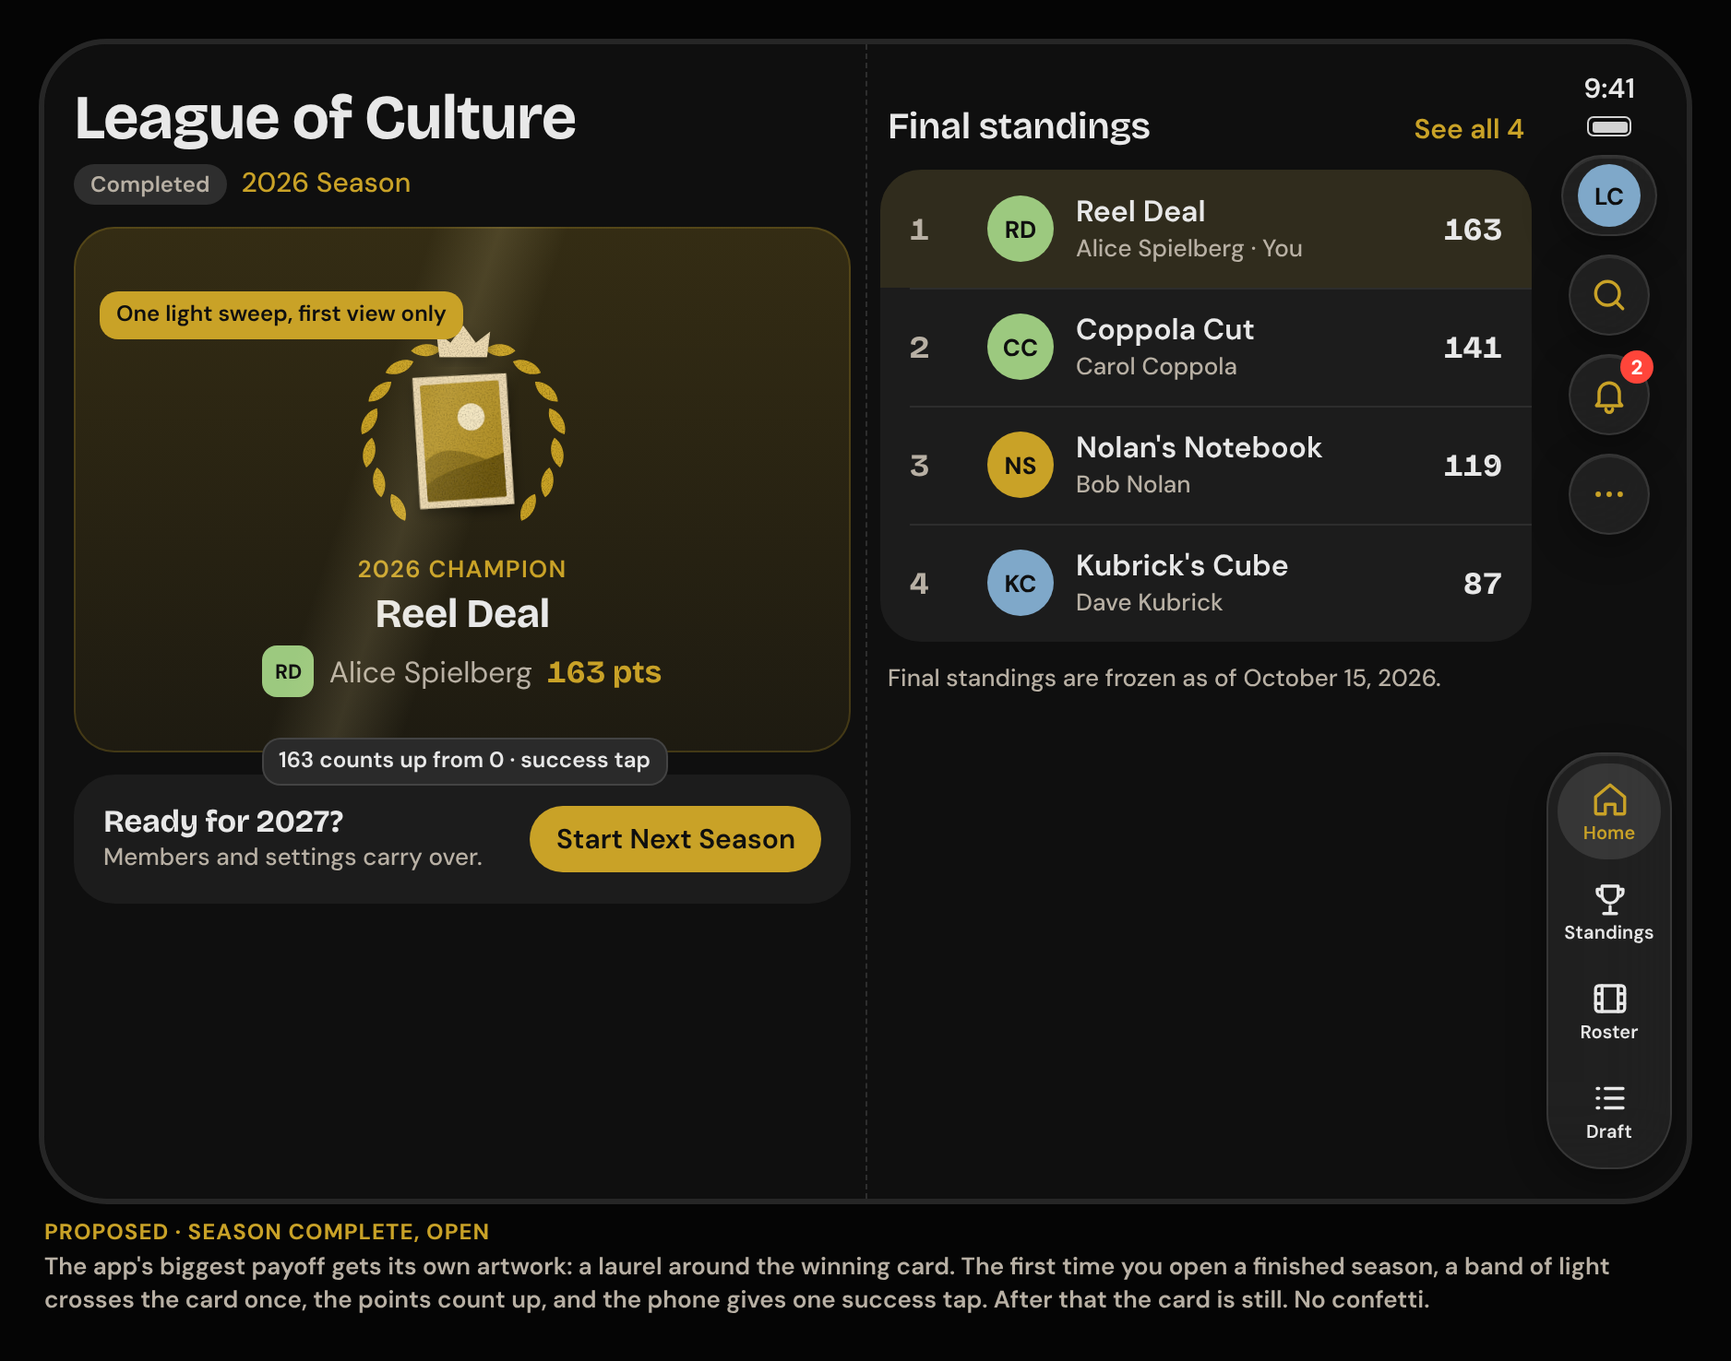
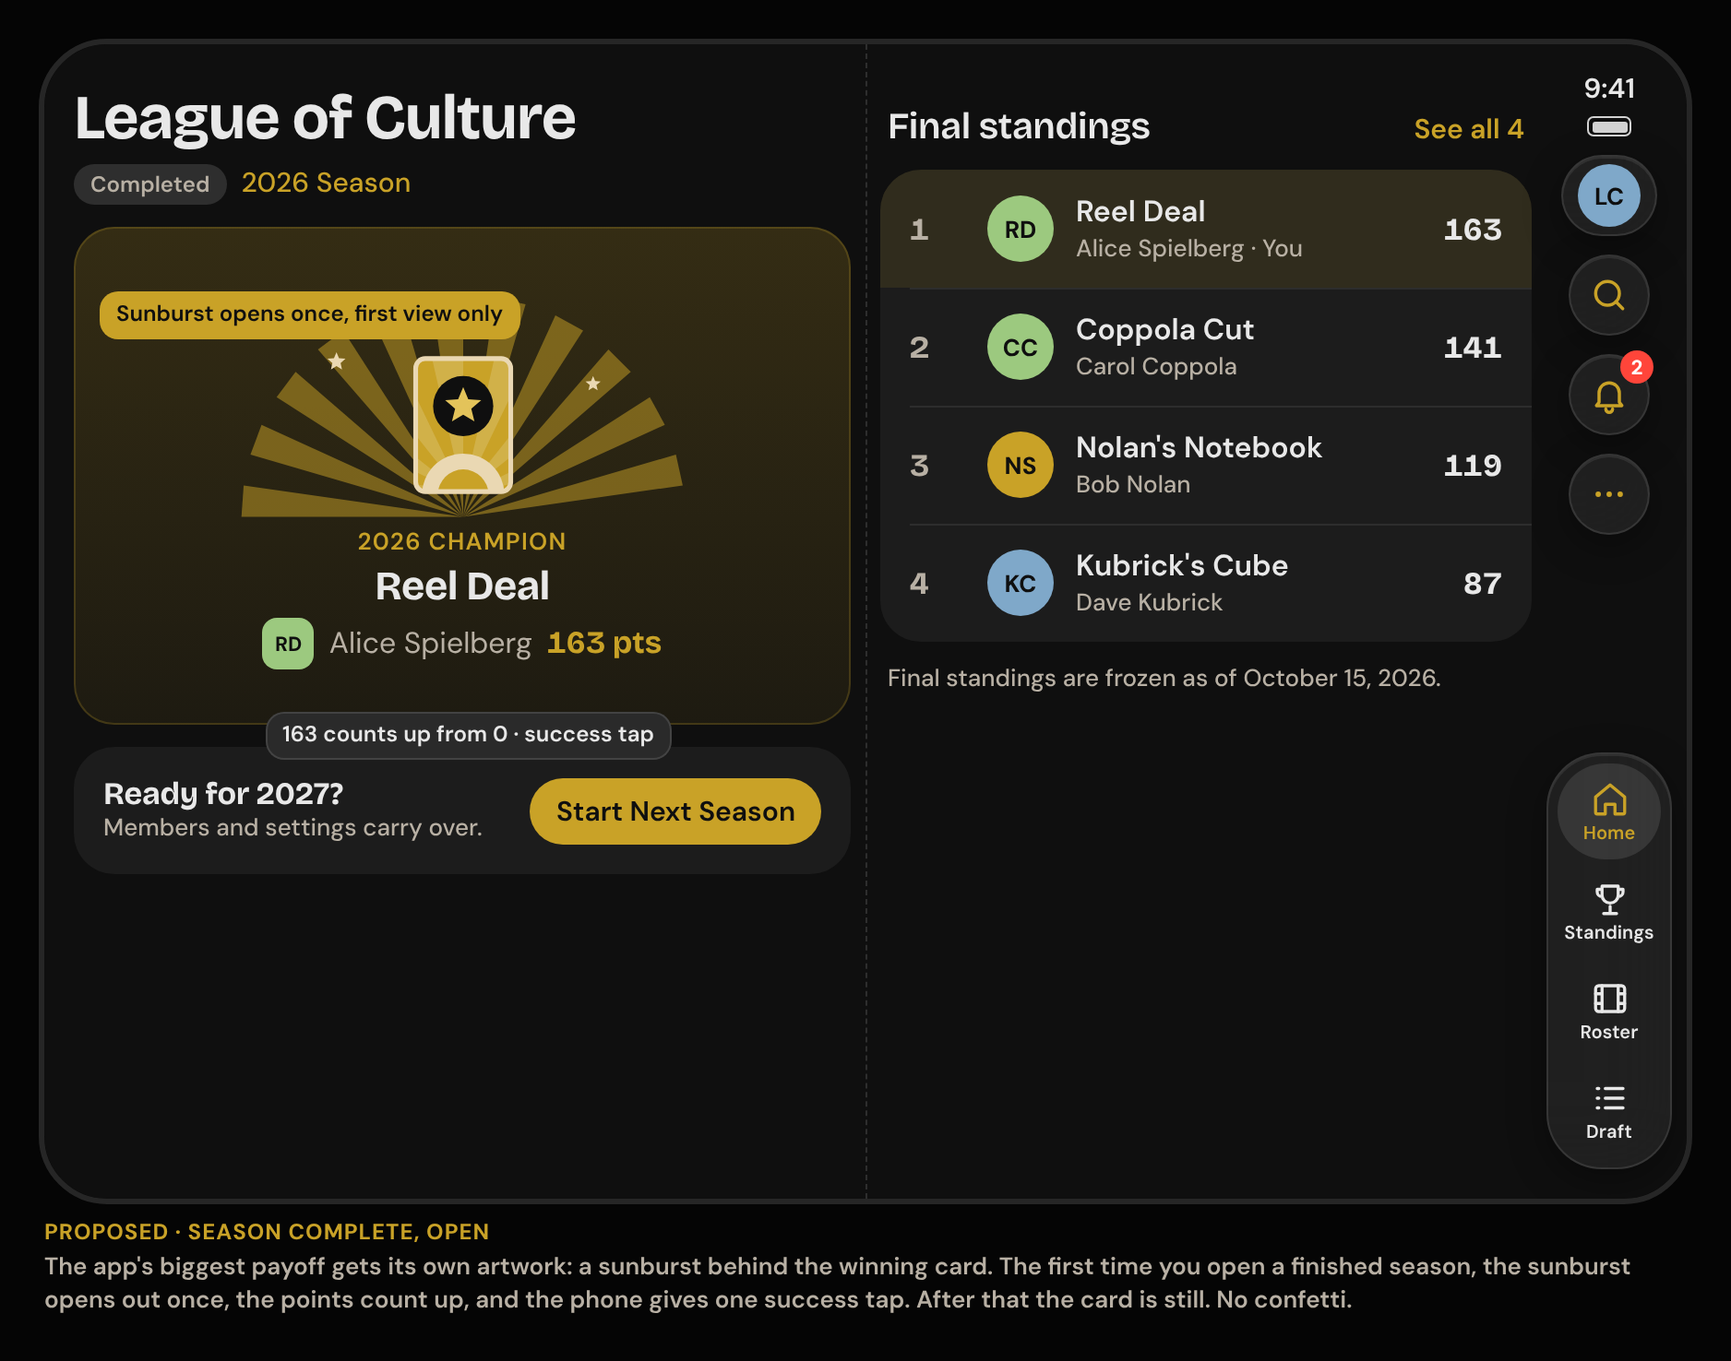
Record the Marquee style decision and redraw the empty-screen and champion mockups in it
Claude-Session: https://claude.ai/code/session_012k7YdjoEYVuXGu8BWTTk1T

Changed region(s): [[0.0618, 0.1558, 0.4947, 0.6545], [0.0309, 0.9038, 0.9275, 0.9661]]

diff --git a/docs/ios-delight/mockups/empty-states.html b/docs/ios-delight/mockups/empty-states.html
@@ -12,25 +12,25 @@
     <div class="vtabs glass"><div class="vtab"><i data-i="home"></i>Home</div><div class="vtab"><i data-i="roster"></i>Roster</div><div class="vtab"><i data-i="bids"></i>Bids</div><div class="vtab on"><i data-i="trades"></i>Trades</div><div class="vtab"><i data-i="standings"></i>Standings</div></div></div>
   <div class="pane c"><div class="hd"><div class="t-page">Trades</div><div class="row"><span class="t-meta">Budget</span><span class="t-num cg">$54</span></div></div>
     <div class="seg"><span class="on">Pending</span><span>Mine</span><span>League</span><span>History</span></div>
-    <div class="empty"><span data-art="trade" style="width:216px"></span><div class="t-panel">No pending trades</div><div class="t-body">Have a swap in mind? Propose a trade to another team.</div></div></div>
+    <div class="empty"><span data-style="deco:trade" style="width:216px"></span><div class="t-panel">No pending trades</div><div class="t-body">Have a swap in mind? Propose a trade to another team.</div></div></div>
   <div class="bottombar"><div class="btn primary">Propose Trade</div></div>
-</div><div class="cap"><b>Proposed · Trades</b>Two paper movie cards joined by a strip of film, about 216 pt wide. On arrival the cards settle in from a slight tilt, once. With Reduce Motion they simply appear.</div></div>
+</div><div class="cap"><b>Proposed · Trades</b>Two poster cards and a pair of arrows, about 216 pt wide. On arrival the cards slide in from each side and the arrows snap into place, once. With Reduce Motion they simply appear.</div></div>
 
 <div class="frame"><div class="device closed">
   <div class="statusbar"><span>9:41</span><span class="sys"><span class="batt"></span></span></div>
   <div class="rail"><div class="gbtn glass"><i data-i="x"></i></div></div>
   <div class="pane c"><div class="hd"><div class="t-page">Wishlist</div></div>
     <div class="seg"><span class="on">Mine</span><span>League-mates</span></div>
-    <div class="empty"><span data-art="wishlist" style="width:216px"></span><div class="t-panel">Your wishlist is empty</div><div class="t-body">Save movies you want to draft. They show up first when it's your pick.</div>
+    <div class="empty"><span data-style="deco:wishlist" style="width:216px"></span><div class="t-panel">Your wishlist is empty</div><div class="t-body">Save movies you want to draft. They show up first when it's your pick.</div>
     <div class="btn tinted" style="margin-top:20px;align-self:stretch">Find Movies</div></div></div>
-</div><div class="cap"><b>Proposed · Wishlist</b>A small stack of cards with a heart bookmark. Same family, same size, different subject, so each empty screen is recognizable at a glance.</div></div>
+</div><div class="cap"><b>Proposed · Wishlist</b>A fan of cards with a heart badge. Same family, same size, different subject, so each empty screen is recognizable at a glance.</div></div>
 
 <div class="frame"><div class="device closed">
   <div class="statusbar"><span>9:41</span><span class="sys"><span class="batt"></span></span></div>
   <div class="rail"><div class="gbtn glass" style="width:52px"><span class="av round a3" style="width:34px;height:34px">PS</span></div><div class="gbtn glass"><i data-i="search"></i></div><div class="gbtn glass"><i data-i="bell"></i></div><div class="gbtn glass"><i data-i="more"></i></div><div class="grow"></div>
     <div class="vtabs glass"><div class="vtab"><i data-i="home"></i>Home</div><div class="vtab"><i data-i="roster"></i>Roster</div><div class="vtab on"><i data-i="bids"></i>Bids</div><div class="vtab"><i data-i="trades"></i>Trades</div><div class="vtab"><i data-i="standings"></i>Standings</div></div></div>
   <div class="pane c"><div class="hd"><div class="t-page">Bids</div><div class="row"><span class="t-meta">Budget</span><span class="t-num cg">$54</span><span class="t-meta">· Bids close Sun 9 PM</span></div></div>
-    <div class="empty"><span data-art="bids" style="width:216px"></span><div class="t-panel">No active bids</div><div class="t-body">Bid on an unclaimed movie. The highest bid wins when the window closes.</div></div></div>
+    <div class="empty"><span data-style="deco:bids" style="width:216px"></span><div class="t-panel">No active bids</div><div class="t-body">Bid on an unclaimed movie. The highest bid wins when the window closes.</div></div></div>
   <div class="bottombar"><div class="btn primary">Place Bid</div></div>
 </div><div class="cap"><b>Proposed · Bids</b>A card, a bid slip and a coin. No gavel: bids resolve on a schedule, not in a live auction.</div></div>
-</div><script src="../../ios-duo/mockups/icons.js"></script><script src="art.js"></script></body></html>
+</div><script src="../../ios-duo/mockups/icons.js"></script><script src="styles.js"></script></body></html>

diff --git a/docs/ios-delight/mockups/champion.html b/docs/ios-delight/mockups/champion.html
@@ -1,6 +1,6 @@
 <!doctype html><html><head><meta charset="utf-8"><link rel="stylesheet" href="../../ios-duo/mockups/kit.css"><link rel="stylesheet" href="delight.css"><style>
 .champ{background:linear-gradient(180deg,rgba(201,162,39,.20),rgba(201,162,39,.08));border-radius:22px;padding:44px 16px 30px;display:flex;flex-direction:column;align-items:center;gap:4px;position:relative;overflow:hidden;box-shadow:inset 0 0 0 1px rgba(201,162,39,.22)}
-.champ::before{content:"";position:absolute;top:-40px;bottom:-40px;left:150px;width:70px;transform:rotate(18deg);background:linear-gradient(90deg,transparent,rgba(255,236,170,.13),transparent)}
+
 .mrow.me{background:rgba(201,162,39,.12)}
 </style></head><body><div class="shot"><div class="frame"><div class="device open">
   <div class="statusbar"><span>9:41</span><span class="sys"><span class="batt"></span></span></div><div class="fold"></div>
@@ -9,7 +9,7 @@
   <div class="pane l">
     <div class="hd"><div class="t-large one">League of Culture</div><div class="row"><span class="badge b-neutral">Completed</span><span class="t-label cg">2026 Season</span></div></div>
     <div class="champ">
-      <span data-art="champion" style="width:206px"></span>
+      <span data-style="deco:champion" style="width:206px"></span>
       <div class="t-over cg" style="margin-top:2px">2026 Champion</div>
       <div class="t-panel">Reel Deal</div>
       <div style="display:flex;align-items:center;gap:8px"><span class="av round sm a4">RD</span><span class="t-body c2">Alice Spielberg</span><span class="t-num cg">163 pts</span></div>
@@ -26,6 +26,6 @@
     </div>
     <div class="t-meta" style="padding:0 4px">Final standings are frozen as of October 15, 2026.</div>
   </div>
-  <span class="callout" style="left:30px;top:134px">One light sweep, first view only</span>
-  <span class="callout dark" style="left:118px;top:376px">163 counts up from 0 · success tap</span>
-</div><div class="cap wide"><b>Proposed · Season complete, open</b>The app's biggest payoff gets its own artwork: a laurel around the winning card. The first time you open a finished season, a band of light crosses the card once, the points count up, and the phone gives one success tap. After that the card is still. No confetti.</div></div></div><script src="../../ios-duo/mockups/icons.js"></script><script src="art.js"></script></body></html>
+  <span class="callout" style="left:30px;top:134px">Sunburst opens once, first view only</span>
+  <span class="callout dark" style="left:120px;top:362px">163 counts up from 0 · success tap</span>
+</div><div class="cap wide"><b>Proposed · Season complete, open</b>The app's biggest payoff gets its own artwork: a sunburst behind the winning card. The first time you open a finished season, the sunburst opens out once, the points count up, and the phone gives one success tap. After that the card is still. No confetti.</div></div></div><script src="../../ios-duo/mockups/icons.js"></script><script src="styles.js"></script></body></html>

diff --git a/docs/ios-delight/mockups/styles.js b/docs/ios-delight/mockups/styles.js
@@ -28,6 +28,7 @@
     <g clip-path="url(#${id})"><g transform="translate(0 44)">${rays(7, 110, '#fff', .16)}</g><circle cx="0" cy="44" r="26" fill="${I}"/><circle cx="0" cy="44" r="16" fill="${bg}"/></g>
     <rect x="-30" y="-42" width="60" height="84" rx="6" fill="none" stroke="${I}" stroke-width="3"/>`);
   const deco = {
+    bids: () => dc(92, 66, -9, S, 'd7') + at(158, 70, 8, `<rect x="-30" y="-36" width="60" height="72" rx="6" fill="${I}"/><rect x="-21" y="-25" width="26" height="6" rx="3" fill="${K}" opacity=".35"/><rect x="-21" y="-12" width="42" height="5" rx="2.500" fill="${K}" opacity=".2"/><rect x="-21" y="-2" width="34" height="5" rx="2.500" fill="${K}" opacity=".2"/><rect x="-21" y="12" width="42" height="14" rx="7" fill="${B}"/>`) + `<g transform="translate(196 32)"><circle r="17" fill="${K}"/><circle r="14" fill="${G}"/><path d="M0 -8 V8 M4.500 -4.500 C2 -7 -5 -6.500 -5 -2.500 C-5 1 5 -1 5 3 C5 6.500 -2 7 -5 4.500" fill="none" stroke="${K}" stroke-width="2.400" stroke-linecap="round"/></g>`,
     trade: () => dc(64, 66, -10, B, 'd1') + dc(176, 66, 10, S, 'd2') + `<g fill="${G}"><path d="M100 46 h26 v-9 l18 15 l-18 15 v-9 h-26z"/><path d="M140 74 h-26 v-9 l-18 15 l18 15 v-9 h26z"/></g>`,
     wishlist: () => dc(92, 68, -14, S, 'd3') + dc(148, 68, 14, B, 'd4') + dc(120, 62, 0, G, 'd5') + `<g transform="translate(120 56)"><circle r="20" fill="${K}"/><g fill="${I}">${heart(1)}</g></g>`,
     champion: () => `<g transform="translate(120 132)">${rays(11, 140, G, .5)}</g>` + dc(120, 74, 0, G, 'd6') + `<g transform="translate(120 62)"><circle r="19" fill="${K}"/><g fill="${GL}">${star(12)}</g></g><g fill="${I}"><g transform="translate(40 34)">${star(6)}</g><g transform="translate(202 48)">${star(5)}</g></g>`,

diff --git a/docs/IOS-DELIGHT-PLAN.md b/docs/IOS-DELIGHT-PLAN.md
@@ -22,7 +22,7 @@ listed in section 11 and marked **[Apple]**. Everything else is our proposal.
   1. **Feedback** on things you do (taps, small icon animations, numbers that roll).
      Dozens of places, each a line or two of code.
   2. **Illustrations** on empty and welcome screens, in a new style made for the iOS
-     app (Arik's decision; three candidates in section 5.2). About eight pieces of art.
+     app, called Marquee (Arik's decisions; section 5.2). About eight pieces of art.
   3. **Moments**: two or three places where the app celebrates. Making a draft pick,
      a score arriving, winning the season.
 - It fits the Duo work without blocking it: one small foundations thread adds the
@@ -154,9 +154,10 @@ read. The goal is to add warmth without making it busier.
 
 ### 5.2 Illustrations
 
-**Decision (Q1, 2026-11-11): the iOS app gets its own illustration style, not the
-web's Storybook family.** Three candidates are drawn below, each showing the same three
-subjects so they can be compared like for like. Which one is Q1b.
+**Decisions (2026-11-11): the iOS app gets its own illustration style, not the web's
+Storybook family (Q1), and that style is B, Marquee (Q1b).** Marquee is bold flat
+shapes, art-deco sunbursts and strong blocks of color, like an old cinema poster. The
+three candidates that were compared, each drawing the same three subjects:
 
 ![Three candidate illustration styles](ios-delight/mockups/styles.png)
 
@@ -169,24 +170,34 @@ subjects so they can be compared like for like. Which one is Q1b.
 | How it ships | Vector, tiny files | Vector, tiny files | Layered images (blur is costly to draw live) |
 | Risk | May still feel too quiet | Competes with real posters if overused | Least "cinema" personality |
 
-Our recommendation is **B, Marquee**: it answers "boring" most directly, it is plain
-vector art (so it stays sharp on both Duo screens, recolors for the light theme, and
-its parts can move), and its sunburst can become the shared shape behind the champion
-and draft moments. Whichever is chosen, the subjects, sizes and placements below stay
-the same. Rules that carry over from the brand guide regardless of style: no confetti,
-no gavel for bids, original poster art only, and art is removed once a screen has
-content. The mockups in section 7 were drawn before this decision, in the Storybook
-style; read them for placement and size, not for style.
+Why Marquee: it answers "boring" most directly, it is plain vector art (so it stays
+sharp on both Duo screens, recolors for the light theme, and its parts can move), and
+its sunburst becomes the shared shape behind the champion and draft moments.
+
+Marquee rules:
+
+- **Palette:** gold, burgundy, blue-gray and ivory on charcoal, from the brand colors.
+  Flat fills only. No gradients, texture or glow.
+- **Vocabulary:** poster cards with an ivory border, a half-sun and rays, bold arrows,
+  round badges, small stars. Every piece is built from these.
+- **Restraint:** it is loud, so it appears only on the screens in the table below. It
+  never sits beside real movie posters, which it would compete with.
+- Carried over from the brand guide: no confetti, no gavel for bids, original poster
+  art only, and art is removed once a screen has content.
+
+The empty-screen and champion mockups in section 7 are drawn in Marquee. The welcome
+mockup still shows the earlier Storybook stand-in; it is later scope and will be
+redrawn then.
 
 | # | Illustration | Where | Size | Release |
 | --- | --- | --- | --- | --- |
-| I1 | Two movie cards joined by a film strip | Trades, empty | about 216 pt wide | First |
-| I2 | Card stack with a heart bookmark | Wishlist, empty (mine and league-mates) | 216 pt | First |
+| I1 | Two poster cards and a pair of arrows | Trades, empty | about 216 pt wide | First |
+| I2 | Fan of cards with a heart badge | Wishlist, empty (mine and league-mates) | 216 pt | First |
 | I3 | Card, bid slip and coin | Bids, empty; bid history, empty | 216 pt | First |
 | I4 | Quiet cinema marquee | Notifications, empty | 216 pt | First |
 | I5 | Seats and a ticket | Draft before it starts; roster before the draft | 216 pt | First |
 | I6 | Cinema entrance (smaller cut) | No leagues yet; season not open | 216 pt | First |
-| I7 | Laurel around a winning card | Season complete, champion card | about 200 pt | First (see Q4) |
+| I7 | Sunburst behind a winning card | Season complete, champion card | about 200 pt | First (see Q4) |
 | I8 | Cinema entrance, full scene | Welcome (signed out) | 240 pt closed, 380 pt open | Later |
 
 The other twenty-odd empty states (search with no results, "only the commissioner can
@@ -201,16 +212,15 @@ Rules:
 - **Light and dark.** Ivory paper cards vanish on the light theme's background. Every
   piece is checked in both themes and gets a light variant if its outline is lost.
 - **Hidden from VoiceOver.** The title and message beside it already say everything.
-- **Built in parts.** Each piece is two or three separate parts (for example: left
-  card, right card, arrows), so the parts can settle into place on arrival. For styles
-  A and B these are vector shapes; for C they are transparent images with the glow
-  baked in. No animation library is added (the app has one third-party dependency and
+- **Built in parts.** Each piece is two or three separate vector parts (for example:
+  left card, right card, arrows), so the parts can slide and snap into place on
+  arrival. No animation library is added (the app has one third-party dependency and
   should keep it that way).
 - **Small files.** Target under 100 KB per illustration across all its layers, checked
   in the PR.
 
-For styles A and B, the vector drawings in the comparison above are close to
-shippable and would be refined, not redone (Q3).
+The vector drawings in the mockups are close to shippable and would be refined, not
+redone (Q3).
 
 ### 5.3 Motion
 
@@ -312,7 +322,7 @@ No sounds are proposed.
 | Trades | I1 when empty | New offer card eases in; M7 | Trade map above | First |
 | Trade composer | None | Assets slide between "you give" and "you get" | Success on send | First |
 | Standings | None | M2, M5 | None | First |
-| Season complete | I7 | Light sweep and count-up, first view only (moment) | Success, first view only | First (Q4) |
+| Season complete | I7 | Sunburst opens and points count up, first view only (moment) | Success, first view only | First (Q4) |
 | Movie search, movie detail | None | M3; M10 | Selection on save | M3 first, M10 later |
 | Wishlist | I2 when empty | M3; removed card collapses | Selection | First |
 | Notifications | I4 when empty | M4; unread dot fades when read | None | First |
@@ -324,8 +334,7 @@ No sounds are proposed.
 Drawn with the app's real fonts, colors and spacing on the Duo frames from the Duo
 plan (closed and open screens). Sources and a render script are in
 `docs/ios-delight/mockups/` (`node render.js` rebuilds every PNG). Still images cannot
-show movement, so motion is shown as storyboards with captions. The illustrations in
-these five were drawn in the earlier Storybook style (section 5.2).
+show movement, so motion is shown as storyboards with captions.
 
 **Empty screens, today and proposed.** Left: what every empty screen looks like now.
 Then Trades, Wishlist and Bids with their own art.
@@ -346,11 +355,11 @@ its Reduce Motion version.
 
 ![Micro-animation storyboards](ios-delight/mockups/micro.png)
 
-**Season complete (open screen).** The champion card gets art and a one-time reveal.
+**Season complete (open screen).** The champion card gets art and a one-time reveal: the sunburst opens out and the points count up.
 
 ![Season complete with champion artwork](ios-delight/mockups/champion.png)
 
-**Welcome (later).** The one full scene in the app, open and closed.
+**Welcome (later).** The one full scene in the app, open and closed. Still drawn in the earlier Storybook stand-in; to be redrawn in Marquee.
 
 ![Welcome screen with the cinema scene](ios-delight/mockups/welcome.png)
 
@@ -360,7 +369,7 @@ These go into `apps/ios/FantasyReel/DesignSystem/README.md` with the foundations
 by the three reviewer threads.
 
 - **Reduce Motion:** movement becomes a fade or an instant change. Rolling numbers
-  swap. Moments (draft travel, champion sweep) become a cross-fade. Haptics are not
+  swap. Moments (draft travel, champion sunburst) become a cross-fade. Haptics are not
   motion and stay.
 - **Never the only signal.** A change shown by animation is also shown as text or a
   label ("▲ 1", "Your pick", "Bid placed"). A haptic is always paired with something
@@ -418,9 +427,9 @@ Asked one at a time in the thread. Recommendations in bold.
 | # | Question | Options |
 | --- | --- | --- |
 | Q1 | Which illustration style? | **Answered 2026-11-11: a new style for iOS only.** |
-| Q1b | Which of the three new styles (section 5.2)? | A Gold line, **B Marquee**, C Glass, or none of these (draw more). |
+| Q1b | Which of the three new styles (section 5.2)? | **Answered 2026-11-11: B, Marquee.** |
 | Q2 | How much personality? | **Quiet: art on empty screens, feedback everywhere, two or three moments**, or louder: art on populated screens too and more celebration. |
-| Q3 | Who makes the final art? | For A or B: **we draw it as vector art, refining the samples in section 5.2**, or commission an illustrator. For C: generate and layer images, or commission. |
+| Q3 | Who makes the final art? | **We draw it as vector art, refining the samples in section 5.2**, or commission an illustrator. |
 | Q4 | What goes in the first release? | **Foundations, feedback, the seven in-app illustrations, the draft-pick moment and the champion reveal**, or a smaller cut: foundations and feedback only, art afterwards. |
 | Q5 | A haptics switch inside the app? | **No, follow the iPhone's own setting**, or add a switch in Account. |
 | Q6 | Welcome screen: replace the three numbered steps with the cinema scene? | **Yes, later, with the steps kept in How to Play**, or keep the steps and add smaller art. |
